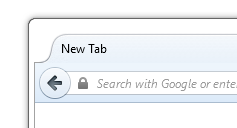
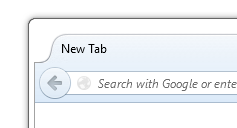
0.9.5b
- Fix up Windows XP mode more
- Add Wizard Preview images for Windows XP Strata & Windows 10 Australis
- Tweak Wizard pages

Changed region(s): [[0.4135, 0.5938, 1.0, 0.7188], [0.3249, 0.5938, 0.384, 0.7188], [0.1772, 0.5938, 0.2658, 0.7188]]

diff --git a/Echelon/Profile Folder/chrome/Echelon.tweaks.css b/Echelon/Profile Folder/chrome/Echelon.tweaks.css
@@ -1056,10 +1056,10 @@
     top: var(--padded-border, 0) !important;
   }
   #main-window[echelon-appearance-xp] .titlebar-buttonbox-container {
-    top: 3px !important;
+    top: calc(var(--padded-border) + 1px) !important;
   }
   #main-window[echelon-appearance-xp][sizemode=maximized] .titlebar-buttonbox-container {
-    top: 0 !important;
+    top: 4px !important;
   }
   #main-window:not([echelon-appearance-xp]) #appmenu-button-container {
     height: calc(var(--titlebar-height) + 6px) !important;
@@ -1082,17 +1082,18 @@
   }
 }
 /** APPEARANCE ON WINDOWS XP **/
-#main-window[echelon-appearance-xp] {
-  /* Trees don't support background-image */
-  /* Have to do this because Smart Folders above this changes the icon */
-}
 #main-window[echelon-appearance-xp] ::placeholder {
   opacity: 1 !important;
+}
+#main-window[echelon-appearance-xp] #appmenu-button-container {
+  border: 0 !important;
+  margin-bottom: 5px !important;
+  z-index: 1 !important;
 }
 #main-window[echelon-appearance-xp] #TabsToolbar:not(:-moz-lwtheme) {
   background-image: none !important;
 }
-#main-window[echelon-appearance-xp]:not([echelon-style-4]) #TabsToolbar, #main-window[echelon-appearance-xp]:not([echelon-style-4]) #toolbar-menubar {
+#main-window[echelon-appearance-xp]:not([echelon-style-4], [sizemode="maximized"]) #TabsToolbar, #main-window[echelon-appearance-xp]:not([echelon-style-4]) #toolbar-menubar {
   background-color: -moz-Dialog !important;
 }
 #main-window[echelon-appearance-xp]:not([echelon-style-4]) #TabsToolbar:not(:-moz-lwtheme) {
@@ -1154,6 +1155,39 @@
 #main-window[echelon-appearance-xp] treechildren::-moz-tree-image(title, query, tagContainer),
 #main-window[echelon-appearance-xp] treechildren::-moz-tree-image(query, OrganizerQuery_tags_______v) {
   list-style-image: url("images/tag.png") !important;
+}
+
+#main-window:not([tabs-on-top])[echelon-appearance-xp] #PersonalToolbar, 
+#main-window:not([tabs-on-top])[echelon-appearance-xp] #TabsToolbar,
+#main-window:not([tabs-on-top])[echelon-appearance-xp] #nav-bar {
+  border-left: 0 !important;
+  border-right: 0 !important;
+  background-color: -moz-Dialog !important;
+}
+
+#main-window[echelon-appearance-xp] #main-menubar > menu {
+  color: WindowText !important;
+}
+
+#main-window[echelon-appearance-xp] #main-menubar > menu[_moz-menuactive="true"] {
+  color: HighlightText !important;
+}
+
+#main-window[echelon-appearance-xp] #main-menubar > menu:-moz-window-inactive {
+  color: ThreeDShadow !important;
+}
+
+/* Hack to have the titlebar image because the bottom part of it's image is hidden */
+#main-window[tabsintitlebar][echelon-appearance-xp] #titlebar::before {
+  content: '';
+  display: inline-block;
+  width: 100%;
+  height: var(--titlebar-height);
+  appearance: auto;
+  pointer-events: none !important;
+  -moz-default-appearance: -moz-window-titlebar;
+  position: absolute !important;
+  z-index: 0 !important;
 }
 
 /** TABS ON BOTTOM **/

diff --git a/Echelon/Profile Folder/chrome/echelon-scss-src/Echelon.tweaks.scss b/Echelon/Profile Folder/chrome/echelon-scss-src/Echelon.tweaks.scss
@@ -1145,10 +1145,10 @@
   
   #main-window[echelon-appearance-xp] .titlebar-buttonbox-container {
     // hack
-    top: 3px !important;
+    top: calc(var(--padded-border) + 1px) !important;
   }
   #main-window[echelon-appearance-xp][sizemode="maximized"] .titlebar-buttonbox-container {
-    top: 0 !important;
+    top: 4px !important;
   }
 
   #main-window:not([echelon-appearance-xp]) #appmenu-button-container {
@@ -1179,11 +1179,17 @@
     opacity: 1 !important;
   }
 
+  #appmenu-button-container {
+    border: 0 !important;
+    margin-bottom: 5px !important;
+    z-index: 1 !important;
+  }
+
   #TabsToolbar:not(:-moz-lwtheme) {
     background-image: none !important;
   }
   
-  &:not([echelon-style-4]) #TabsToolbar,
+  &:not([echelon-style-4], [sizemode="maximized"]) #TabsToolbar, 
   &:not([echelon-style-4]) #toolbar-menubar {
     background-color: -moz-Dialog !important;
   }
@@ -1228,7 +1234,6 @@
     list-style-image: url('images/xp/twisty-open.png') !important;
   }
   
-  /* Trees don't support background-image */
   treechildren::-moz-tree-image(container),
   treechildren::-moz-tree-image(title, query, hostContainer) {
     list-style-image: url(images/xp/bookmarksFolder.png) !important;
@@ -1238,7 +1243,6 @@
     list-style-image: url(images/xp/query.png) !important;
   }
 
-  /* Have to do this because Smart Folders above this changes the icon */
   treechildren::-moz-tree-image(title, query, hostContainer) {
     list-style-image: url(images/xp/bookmarksFolder.png) !important;
   }
@@ -1265,6 +1269,40 @@
   treechildren::-moz-tree-image(title, query, tagContainer),
   treechildren::-moz-tree-image(query, OrganizerQuery_tags_______v) {
     list-style-image: url("images/tag.png") !important;
+  }
+  
+  
+  &:not([tabs-on-top]) #PersonalToolbar, 
+  &:not([tabs-on-top]) #TabsToolbar,
+  &:not([tabs-on-top]) #nav-bar {
+    border-left: 0 !important;
+    border-right: 0 !important;
+    background-color: -moz-Dialog !important;
+  }
+
+  #main-menubar > menu {
+    color: WindowText !important;
+  }
+
+  #main-menubar > menu[_moz-menuactive="true"] {
+    color: HighlightText !important;
+  }
+
+  #main-menubar > menu:-moz-window-inactive {
+    color: ThreeDShadow !important;
+  }
+
+  /* Hack to have the titlebar image because the bottom part of it's image is hidden */
+  &[tabsintitlebar] #titlebar::before {
+    content: '';
+    display: inline-block;
+    width: 100%;
+    height: var(--titlebar-height);
+    appearance: auto;
+    pointer-events: none !important;
+    -moz-default-appearance: -moz-window-titlebar;
+    position: absolute !important;
+    z-index: 0 !important;
   }
   
 }

diff --git a/Echelon/Profile Folder/chrome/windows/echelonWizard/styles.css b/Echelon/Profile Folder/chrome/windows/echelonWizard/styles.css
@@ -154,6 +154,7 @@ vbox {
 }
 
 .footerButton:not([disabled]):hover:active {
+	transition: none;
 	box-shadow: inset 0px 2px 4px -2px rgba(0, 0, 0, 0.50);
 }
 
@@ -222,7 +223,7 @@ vbox {
 }
 
 .restartButton .buttonIcon {
-	background-image: url('chrome://userchrome/content/windows/echelonWizard/images/restarticon.png');
+	background-image: url('chrome://userchrome/content/windows/echelonWizard/images/finishicon.png');
 }
 
 .pageContentHeader {
@@ -284,16 +285,28 @@ vbox {
 	background-image: url('chrome://userchrome/content/windows/echelonWizard/images/ff4blue.png');
 }
 
-.australisblue {
-	background-image: url('chrome://userchrome/content/windows/echelonWizard/images/australisblue.png');
-}
-
 .ff4native {
 	background-image: url('chrome://userchrome/content/windows/echelonWizard/images/ff4native.png');
 }
 
+.ff4xp {
+	background-image: url('chrome://userchrome/content/windows/echelonWizard/images/ff4xp.png');
+}
+
+.australisblue {
+	background-image: url('chrome://userchrome/content/windows/echelonWizard/images/australisblue.png');
+}
+
 .australisnative {
 	background-image: url('chrome://userchrome/content/windows/echelonWizard/images/australisnative.png');
+}
+
+.australisxp {
+	background-image: url('chrome://userchrome/content/windows/echelonWizard/images/australisxp.png');
+}
+
+.australisWindows10 {
+	background-image: url('chrome://userchrome/content/windows/echelonWizard/images/australis10.png');
 }
 
 .ff4bluesmall {
@@ -319,11 +332,30 @@ vbox {
 	text-shadow: 0px -1px 3.8px #1384C4, 0px -1px 17px #1384C4;
 }
 
+.smallText h2 {
+	font-size: 15px;
+}
+
 #reset-layout {
+	font-size: 9pt;
+	font-family: 'Segoe Ui', sans-serif;
+}
+
+#reset-layout {
+	margin-inline: 20px;
 	margin-bottom: 8px;
 }
 
-.backButton.close {
-	border-radius: 3px;
-	border-left: 1px solid transparent;
+#reset-layout .checkbox-check {
+	width: 13px !important;
+	height: 13px !important;
+	border-radius: 2px !important;
+	border: 1px solid #000 !important;
+	background-image: linear-gradient(180deg, #3D3D3D 0%, #181818 100%) !important;
+	background-color: transparent !important;
+	box-shadow: 0px 0px 0px 1px rgba(255, 255, 255, 0.25), 0px 1px 2px 0px rgba(0, 0, 0, 0.75) inset;
+}
+
+#reset-layout .checkbox-check[checked] {
+	list-style-image: url('chrome://userchrome/content/windows/echelonWizard/images/checkmark.png');
 }

diff --git a/Echelon/Profile Folder/chrome/windows/echelonWizard/script.js b/Echelon/Profile Folder/chrome/windows/echelonWizard/script.js
@@ -65,6 +65,11 @@ function setOSPref(osName)
 			isBlue = true;
 			isWin10 = false;
 			break;
+		case "win7native":
+			isWinXP = false;
+			isBlue = false;
+			isWin10 = false;
+			break;
 		case "win8":
 			isWinXP = false;
 			isBlue = false; // confusing...
